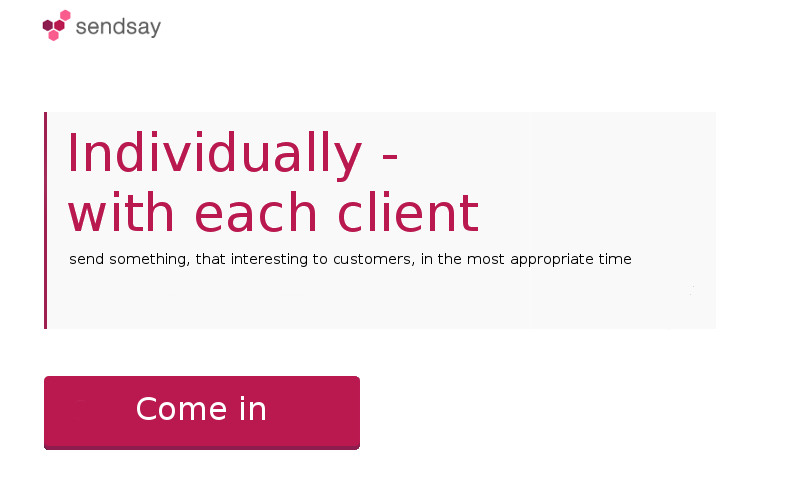
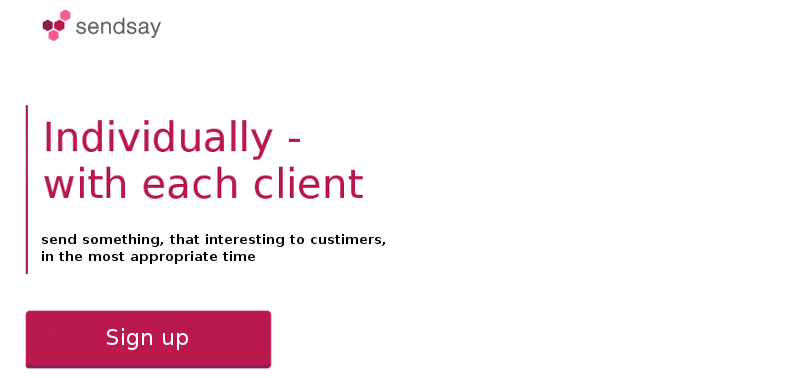
Main page design changed

Changed region(s): [[0.0312, 0.2328, 0.7812, 0.7275], [0.0312, 0.7275, 0.4688, 0.9894], [0.0312, 0.0, 0.2188, 0.1164]]

diff --git a/src/view/MainPage.java b/src/view/MainPage.java
@@ -3,7 +3,7 @@ package view;
 import javafx.geometry.Pos;
 import javafx.scene.Scene;
 import javafx.scene.control.Label;
-import javafx.scene.image.*;
+import javafx.scene.image.ImageView;
 import javafx.scene.layout.*;
 import javafx.scene.paint.Color;
 import javafx.scene.shape.Circle;
@@ -20,31 +20,18 @@ public class MainPage {
     }
 
     private BorderPane layout = new BorderPane();
-    private VBox top = new VBox();
 
-    private Label logo = new Label("", new ImageView("view/SendSayLogo.png"));
-    private Label info = new Label("Bulk email distributions");
-    private Label button = new Label("", new ImageView("view/res/tryItButton.jpg"));
+    private Label frontPane = new Label("", new ImageView("view/res/SendsayPrimaryPage.png"));
 
     private HBox pagination = new HBox(10);
 
     private void init() {
 
-        // top panel
-        logo.getStyleClass().clear();
-        logo.setScaleX(0.7);
-        logo.setScaleY(0.7);
-
-        info.getStyleClass().clear();
-        info.setAlignment(Pos.CENTER);
-        info.setScaleX(1.5);
-        info.setScaleY(1.5);
-        info.setTextFill(Color.WHEAT);
-        info.setTranslateX(60);
-
-        top.getChildren().addAll(logo, info);
-
-        layout.setTop(top);
+        frontPane.getStyleClass().clear();
+        frontPane.setOpacity(0.7);
+        frontPane.setTranslateY(-55);
+        frontPane.setOnMouseClicked((e) -> slide());
+        layout.setCenter(frontPane);
 
         // pagination
         Circle circle = new Circle(5, Color.WHEAT.darker());
@@ -57,18 +44,6 @@ public class MainPage {
             circle.setScaleX(1);
             circle.setScaleY(1);
         });
-
-        // center button
-        button.getStyleClass().clear();
-        button.setScaleX(0.7);
-        button.setScaleY(0.7);
-        button.setOpacity(0.6);
-        button.setOnMouseEntered((e) -> button.setOpacity(0.7));
-        button.setOnMouseExited((e) -> button.setOpacity(0.6));
-        button.setTranslateY(-50);
-        button.setOnMouseClicked((e) -> slide());
-
-        layout.setCenter(button);
 
         Circle circle1 = new Circle(5, Color.WHEAT);
         circle1.setOpacity(0.8);
@@ -112,22 +87,15 @@ public class MainPage {
 
     private void slide() {
         Transition transition = new Transition();
-        HBox target = new Entrance(primaryStage).getTopPanel();
-        button.setTranslateX(240);
-        target.setTranslateY(-107);
-        layout.setRight(target);
-        transition.translateTransition(0.8, logo.getTranslateX(), logo.getTranslateX() - 500,
-                logo.getTranslateY(), logo.getTranslateY(), logo);
-        transition.translateTransition(0.8, info.getTranslateX(), info.getTranslateX() - 500,
-                info.getTranslateY(), info.getTranslateY(), info);
-        transition.translateTransition(0.8, button.getTranslateX(), button.getTranslateX() - 500,
-                button.getTranslateY(), button.getTranslateY(), button).setOnFinished((e2) -> {
-            Entrance.getLayout(primaryStage);
-            layout.getChildren().remove(pagination);
-        });
-        transition.translateTransition(0.8, target.getTranslateX() + 500, target.getTranslateX() - 160,
-                target.getTranslateY(), target.getTranslateY(), target);
+        transition.translateTransition(0.8, frontPane.getTranslateX(), frontPane.getTranslateX() - 800,
+                frontPane.getTranslateY() - 15, frontPane.getTranslateY() - 15, frontPane);
 
+        HBox target = new Entrance(primaryStage).getTopPanel();
+        layout.setTop(target);
+        target.setTranslateX(800);
+        transition.translateTransition(0.8, target.getTranslateX(), target.getTranslateX() - 800,
+                target.getTranslateY(), target.getTranslateY(), target).
+                setOnFinished((e) -> Entrance.getLayout(primaryStage));
     }
 
     public static void getPage(Stage primaryStage) {
@@ -137,11 +105,7 @@ public class MainPage {
         primaryStage.setScene(scene);
     }
 
-    public Label getButton() {
-        return button;
-    }
-
-    public VBox getTop() {
-        return top;
+    public Label getFrontPane() {
+        return frontPane;
     }
 }

diff --git a/src/view/clientLayouts/Entrance.java b/src/view/clientLayouts/Entrance.java
@@ -166,7 +166,6 @@ public class Entrance {
         pagination.getChildren().addAll(circle, circle1);
 
         borderPane.setBottom(pagination);
-
         topPanel.setAlignment(Pos.TOP_CENTER);
         topPanel.getChildren().addAll(signIn, signUp, corporateLabel);
 
@@ -176,28 +175,15 @@ public class Entrance {
 
     private void slide() {
         Transition transition = new Transition();
-        MainPage mainPage = new MainPage(primaryStage);
-
-        VBox target = mainPage.getTop();
-        target.setTranslateY(-30);
-
-        Label target1 = mainPage.getButton();
-        target1.setTranslateX(-245);
-        target1.setTranslateY(183);
-
-        borderPane.setRight(target1);
-        borderPane.setCenter(target);
-        transition.translateTransition(0.8, topPanel.getTranslateX(), 640,
-                topPanel.getTranslateY(), topPanel.getTranslateY(), topPanel).setOnFinished((e1) -> {
-            borderPane.getChildren().remove(pagination);
-            MainPage.getPage(primaryStage);
-        });
-        transition.translateTransition(0.8, target.getTranslateX() - 500, target.getTranslateX(), target.getTranslateY(),
-                target.getTranslateY(), target);
-        transition.translateTransition(0.8, target1.getTranslateX() - 500, target1.getTranslateX(), target1.getTranslateY(),
-                target1.getTranslateY(), target1);
-
-
+        transition.translateTransition(0.8, topPanel.getTranslateX(), topPanel.getTranslateX() + 800,
+                topPanel.getTranslateY(), topPanel.getTranslateY(), topPanel).
+                setOnFinished((e) -> MainPage.getPage(primaryStage));
+        Label target = new MainPage(primaryStage).getFrontPane();
+        target.setTranslateX(-800);
+        target.setTranslateY(190);
+        borderPane.getChildren().add(target);
+        transition.translateTransition(0.8, target.getTranslateX(), target.getTranslateX() + 800,
+                target.getTranslateY(), target.getTranslateY(), target);
     }
 
     private class KeyEvent extends Region {
@@ -206,7 +192,7 @@ public class Entrance {
             setPrefSize(800, 500);
             setFocusTraversable(true);
             setOnKeyPressed((e) -> {
-                if (e.getCode().getName().equals("Left"))
+                if (e.getCode().getName().equals("Left") && borderPane.getCenter() == null)
                     slide();
             });
         }

diff --git a/tests/TestManangerController.java b/tests/TestManangerController.java
@@ -1,8 +1,7 @@
-import controllers.ManangerConroller;
-import controllers.ManangerControllerImpl;
+import controllers.ManagerController;
+import controllers.ManagerControllerImpl;
 import dataBase.DataBase;
 import exceptions.NoSuchContactException;
-import exceptions.NoSuchRequestException;
 import javafx.collections.ObservableList;
 import models.User;
 import static org.junit.Assert.*;
@@ -14,7 +13,7 @@ import org.junit.Test;
 public class TestManangerController {
 
     private DataBase dataBase = DataBase.getInstance();
-    private ManangerConroller manangerConroller = new ManangerControllerImpl();
+    private ManagerController manangerConroller = new ManagerControllerImpl();
     private User user1, user2, user3, mentor;
 
     @Before
